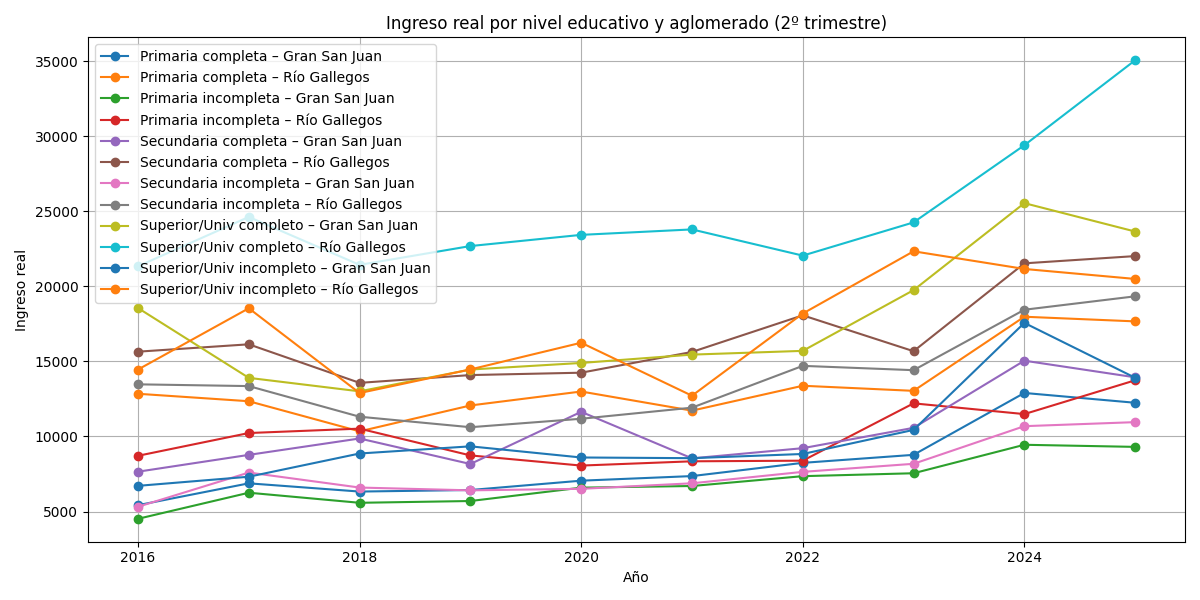
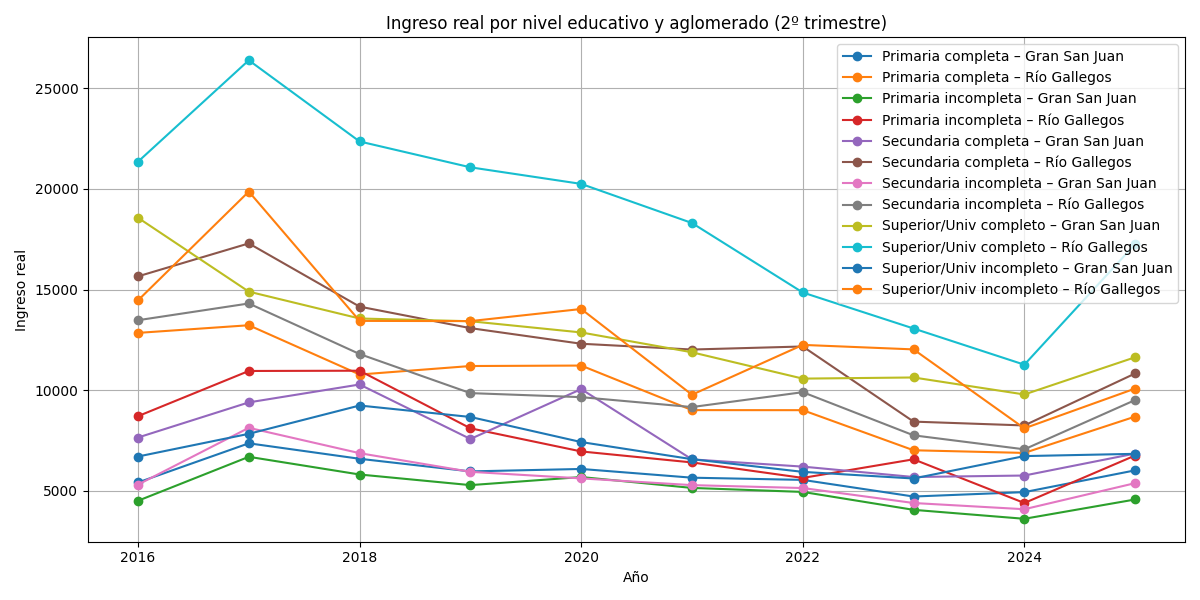
se ponen los datos del IPC oficiales

diff --git a/punto1.py b/punto1.py
@@ -185,16 +185,16 @@ print("\nSe guardó 'punto1_ingresos_univariado.csv'")
 
 # === 6) IPC por año (base 100 en 2016) ===
 ipc = {
-    2016: 100,
-    2017: 121,
-    2018: 158,
-    2019: 215,
-    2020: 281,
-    2021: 368,
-    2022: 558,
-    2023: 1044,
-    2024: 2400,
-    2025: 4300
+    2016: 100.000000,
+    2017: 112.985075,
+    2018: 151.569817,
+    2019: 231.605092,
+    2020: 325.364358,
+    2021: 478.615058,
+    2022: 828.603683,
+    2023: 1939.297233,
+    2024: 6263.886042,
+    2025: 8741.757380
 }
 
 ipc_df = pd.DataFrame(list(ipc.items()), columns=["anio", "ipc"])

diff --git a/punto2.py b/punto2.py
@@ -53,9 +53,16 @@ df = df[df["P47T"] > 0]
 # -----------------------------------------
 
 ipc = {
-    2016: 100, 2017: 121, 2018: 158, 2019: 215,
-    2020: 281, 2021: 368, 2022: 558,
-    2023: 1044, 2024: 2400, 2025: 4300
+    2016: 100.000000,
+    2017: 112.985075,
+    2018: 151.569817,
+    2019: 231.605092,
+    2020: 325.364358,
+    2021: 478.615058,
+    2022: 828.603683,
+    2023: 1939.297233,
+    2024: 6263.886042,
+    2025: 8741.757380
 }
 
 df["ipc"] = df["ANO4"].map(ipc)
